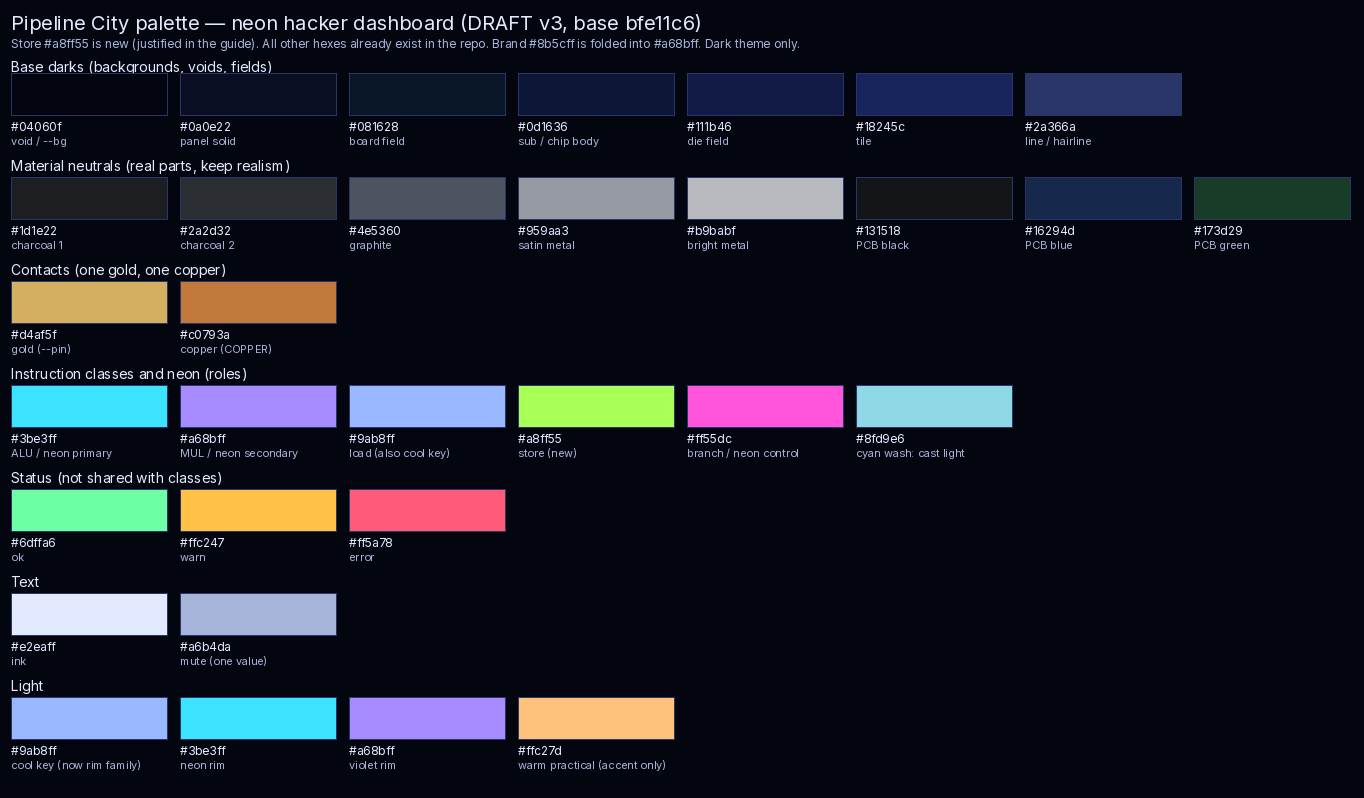
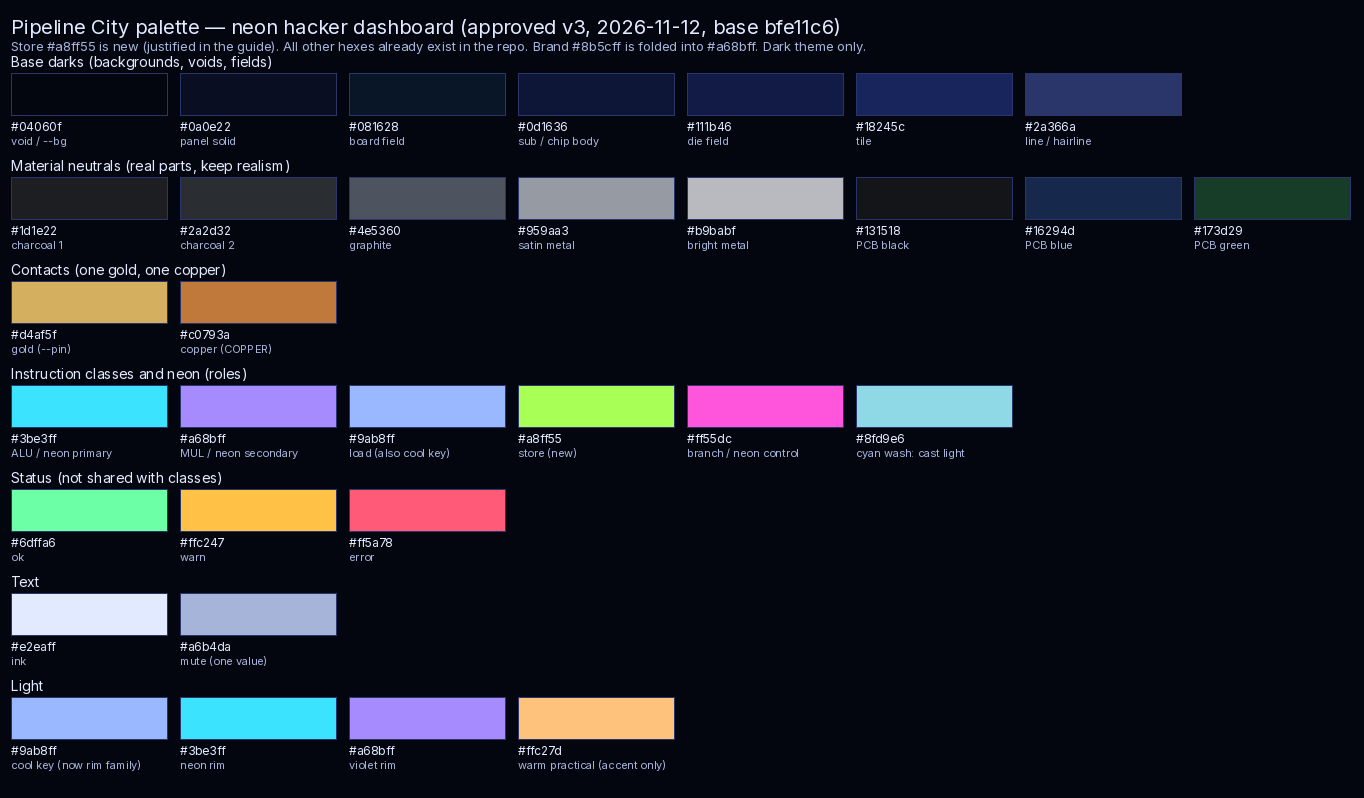
docs: fix review facts in the v3 art style guide
Update art-style.md, palette.png and references.png. Drop ui-boot.png,
which the guide no longer cites. No code changes.

Changed region(s): [[0.0, 0.0, 0.6158, 0.0902]]

diff --git a/docs/art-style.md b/docs/art-style.md
@@ -3,7 +3,7 @@
 **Status: Approved by Khalil, 2026-11-12 (v3).**
 
 **Base:** `bfe11c69781196ae8dfb9ba7de3553b2037edffc` (main, 2026-11-12 19:49 UTC+1). Folds the five open calls Khalil answered on 2026-11-12 into DRAFT v2. Evidence: the direction audit (2026-11-12, delivered with the v2 draft, not in the repo) and the measurements cited below. **(J)** = judgement. "Proposal" = not decided, not scheduled.
-**Images:** palette [art/palette.png](art/palette.png), references [art/references.png](art/references.png), plus [art/ui-boot.png](art/ui-boot.png) (the boot screen of `index.html`, rendered headless) and [art/cpu2-die-crop.png](art/cpu2-die-crop.png) (a 2.7× crop of `public/stills/cpu2.webp`).
+**Images:** palette [art/palette.png](art/palette.png), references [art/references.png](art/references.png), and [art/cpu2-die-crop.png](art/cpu2-die-crop.png) (a 2.7× crop of `public/stills/cpu2.webp`).
 **Source of truth for values:** the code. Modelling and material detail: [`docs/LOWPOLY_STYLE.md`](LOWPOLY_STYLE.md) (it conflicts with this direction in places; see §12).
 
 ## 1. Direction
@@ -12,7 +12,7 @@ Pipeline City is a **neon hacker dashboard**: a near-black navy world where info
 **It is not:** a cozy warm desk scene (2700 K lamps, oak and wood as the mood); a light theme; cartoon or flat-shaded parts, stylised shapes or saturated base paint; a club rave (neon everywhere, flooding the room, glow that hides the hardware).
 
 ## 2. Palette (one set for UI, 3D parts and 2D interiors)
-Every hex already exists in the repo, except store `#a8ff55`, which is new (justified under Instruction classes below). Roles are decided in this draft.
+Every hex already exists in the repo, except store `#a8ff55`, which is new (justified under Instruction classes below). Roles are decided.
 | Role | Hex | Source |
 |---|---|---|
 | Void / page | `#04060f` | `--bg` (`src/core/ui/ui.css:15`), `theme.ts:15` |
@@ -30,7 +30,7 @@ Every hex already exists in the repo, except store `#a8ff55`, which is new (just
 | Neon primary: active, ALU | `#3be3ff` | `--alu`/`--accent` (`ui.css:17-18`), `GLOW.active` (`src/core/render/three/materials.ts:8`) |
 | Neon secondary: MUL, brand | `#a68bff` | `--mul` (`ui.css:17`); also replaces former brand `#8b5cff` |
 | Neon control: branch | `#ff55dc` | `--br` (`ui.css:17`) |
-| Load (instruction class) | `#9ab8ff` | already the cool key (`src/core/render/three/viewer.ts:68`); was `--ld #ffc247` |
+| Load (instruction class) | `#9ab8ff` | already the studio rim (`src/core/render/three/viewer.ts:68`); was `--ld #ffc247` |
 | Store (instruction class) | `#a8ff55` | **new**; was `--st #6dffa6`. Justification below |
 | Cyan cast light | `#8fd9e6` | `NEON_WASH` (`src/features/room/render/three/palette.ts:51`) |
 | Status ok / warn / error | `#6dffa6` / `#ffc247` / `#ff5a78` | `--ok`/`--warn`/`--bad` (`ui.css:18`) |
@@ -54,9 +54,9 @@ Status green and amber are no longer used as class colours. ALU, MUL and branch 
 | Store | `--st` / `T.st` | `#a8ff55` (**new**; was `#6dffa6`) | 91° | 16.47:1 | 13.47:1 |
 | Branch | `--br` / `T.br` | `#ff55dc` (unchanged) | 312° | 7.31:1 | 5.98:1 |
 
-WCAG: 4.5:1 is AA for normal text, 7:1 is AAA. All five clear AA against the void; ALU, load and store also clear AAA there. Against the die field (where class chips actually sit), MUL 6.11:1 and branch 5.98:1 stay AA, as they already were. Load is 34° from ALU and 32° from MUL, and is less saturated (S 0.40 vs ALU 0.77 / MUL 0.45), so it reads as a soft azure rather than a second cyan or violet. It reuses the cool-key hex already in the palette (no new colour).
+WCAG: 4.5:1 is AA for normal text, 7:1 is AAA. All five clear AAA against the void. Against the die field (where class chips actually sit), MUL 6.11:1 and branch 5.98:1 stay AA, as they already were. Load is 34° from ALU and 32° from MUL, and is less saturated (S 0.40 vs ALU 0.77 / MUL 0.45), so it reads as a soft azure rather than a second cyan or violet. It reuses the cool-key hex already in the palette (no new colour).
 
-**Why a new hex for store.** No remaining palette hue sits far enough from status green `#6dffa6` (143°), status amber `#ffc247` (40°) and ALU cyan (189°). The lime already in the repo, `#7dff4d` (the gamer-case RGB strip, `case3d.ts:258`, hue 104°), is only 31° from status green and would recreate the collision this change is meant to end. `#a8ff55` (hue 91°) sits nearly midway between amber (51° away) and status green (53° away), is neon at V 1.0, and contrasts 16.47:1 against the void.
+**Why a new hex for store.** No remaining palette hue sits far enough from status green `#6dffa6` (143°), status amber `#ffc247` (40°) and ALU cyan (189°). The lime already in the repo, `#7dff4d` (the gamer-case RGB strip, `case3d.ts:258`, hue 104°), is only 39.6° from status green and would recreate the collision this change is meant to end. `#a8ff55` (hue 91°) sits nearly midway between amber (51° away) and status green (53° away), is neon at V 1.0, and contrasts 16.47:1 against the void.
 
 ### Deprecated values (replace when the file is next touched; replacements marked (J) are judgements)
 | Value | Where | Replace with |
@@ -87,7 +87,7 @@ Light-theme tokens (the whole `:root` default palette and the `LIGHT` object) ar
 
 ## 3. Lighting
 - **Key: cool.** Stills, gallery and build mode: a cool white key (`#9ab8ff` family) replaces `#fff0dc`. **Rim: neon**, cyan `#3be3ff` or violet `#a68bff`, one per shot. Exposure and ACES stay (`viewer.ts`: ACES, exposure 1.6). (Proposal; today: key `#fff0dc` ×2.4, rim `#9ab8ff` ×1.2, `viewer.ts:68`.)
-- **Warm only as small accents:** a practical lamp may be warm (`#ffc27d`), never the key. Target (J): in a night room shot, warm-tinted pixels (R > B) under 20 % (the boot still has 48.0 % today).
+- **Warm only as small accents:** a practical lamp may be warm (`#ffc27d`), never the key. Target (J): in a night room shot, warm-tinted pixels (R > B + 5) under 20 % (the boot still has 48.0 % today).
 - **Room night look:** the window (moon, city) and the neon fixtures (strips, bias light, LED halo) define the room; warm lamps are pools, not the fill. Today the lamp cap keeps lights in `LIGHT_ORDER` (`src/features/room/render/three/roomlights.ts:18`): key, sun, arc, desk, floor, bedside, sconces, … `deskLed`, `ledHalo`, `ledUnder`, `bias`, `strips` last. So at cap 4 (Low) and cap 8 every neon light is capped; their fixtures still glow and their baked bounce shows ×2.5 (`CAPPED_BOUNCE`, `roomlights.ts:36`). **Proposal:** order neon fixtures before the warm lamps.
 - **Room surfaces: charcoal and graphite, not wood (decided).** Today the room is smoked oak and ash veneer: `OAK #665540` / `OAK_GRAIN #38291c` (`src/features/room/render/three/palette.ts:15`) used by `smokedOak` (roughness `OAK_ROUGH` 0.68, `furniture3d.ts:94,111`) for the floor (`room3d.ts:283-284`), the desk top (`room3d.ts:292`) and the bookcase (`furniture3d.ts:518`); `VENEER #2f2a26` / `VENEER_GRAIN #1c1815` (`palette.ts:10`) at roughness 0.5 (`furniture3d.ts:208,332,764`) for the bed, nightstand, shelf and drawer unit; walls are plaster over `WALL #3a404c` at roughness 0.92 (`palette.ts:8`, `room3d.ts:425`); ceiling `CEILING 0x4a4f59` at roughness 0.95 (`room3d.ts:438`); trim `TRIM 0x3d424c` (`palette.ts:8`). **Targets (J), all from §2:**
 
@@ -124,7 +124,7 @@ These four stay recognisably the same hardware (OEM tower, 3.5" HDD, DDR2 clip-o
 - Emissives only where real hardware has light: status and activity LEDs, RGB strips and rings (fans, GPU shroud, cooler cap, case strip, board strip, RAM), screens, lit traces and die blocks. No glowing outlines on geometry; no emissive on bare plastic or metal.
 - Colours from the neon and status roles only (§2). Existing state looks hold: active `#3be3ff` 0.4, throttled `#ffc247` 0.2, burnt `#ff5a78` 0.8, heat ramp cyan→amber→red from 42 °C to 82 °C (`materials.ts:8-33`).
 - LOD stand-ins keep the same materials, so emissive state survives at a distance (`src/core/render/three/partlod.ts`; `docs/render/lod.md` "The machine's stand-ins"). New emissive materials must keep this: a stateful material joins only its own set.
-- **Stills: powered-on idle (proposal).** Today `renderStill` shows parts unpowered (0 of 71 stills have a neon pixel, S > 0.6 and V > 0.85). New stills show idle emissives (LEDs, strips, rings at their idle level), with no active or heat glow.
+- **Stills: powered-on idle (proposal).** Today `renderStill` shows parts unpowered (3 of 71 stills have any neon pixel, S > 0.6 and V > 0.85: `tpm1` 17 px, `tpm2` 15 px, `cooler1` 1 px). New stills show idle emissives (LEDs, strips, rings at their idle level), with no active or heat glow.
 
 ## 5. Zoom continuity: 3D part → interior view
 Rules (targets; all values are proposals (J)):
@@ -155,15 +155,14 @@ Rules (targets; all values are proposals (J)):
 
 ## 9. References ([art/references.png](art/references.png))
 **References**
-1. `docs/art/ui-boot.png`: the UI at its most on-direction: navy void, glass, the brand gradient (today `#8b5cff`→`#3be3ff` in `index.html:21`; after the fold, `#a68bff`→`#3be3ff`), crisp type.
-2. `docs/art/cpu2-die-crop.png`: the die art's class colours and floorplan: the interior look the zoom must reach (at full value; §5). After the class-hue change, this crop will need a refresh.
-3. `public/stills/cpu2.webp`: a real package carrying neon art; the target once relit (§3).
-4. `public/stills/board2.webp`: black PCB, real slots, low-saturation base: the right base for lit traces.
-5. `public/stills/gpu3.webp`: charcoal shroud and modelled fans, ready for an RGB ring (§4).
-6. `public/stills/vsink1.webp`: a black fin stack with one copper band: dark, plausible, mean L 55.1.
+1. `docs/art/cpu2-die-crop.png`: the die art's class colours and floorplan: the interior look the zoom must reach (at full value; §5). After the class-hue change, this crop will need a refresh.
+2. `public/stills/cpu2.webp`: a real package carrying neon art; the target once relit (§3).
+3. `public/stills/board2.webp`: black PCB, real slots, low-saturation base: the right base for lit traces.
+4. `public/stills/gpu3.webp`: charcoal shroud and modelled fans, ready for an RGB ring (§4).
+5. `public/stills/vsink1.webp`: a black fin stack with one copper band: dark, plausible, mean L 55.1.
 
 **Anti-references (the old look, including the withdrawn light-part exceptions)**
-- `public/boot-still.jpg`: a sunny warm room (48.0 % warm pixels, 0 % neon, wood tones `#413124`, `#593e23`).
+- `public/boot-still.jpg`: a sunny warm room (48.0 % warm pixels (R > B + 5), 0 % neon, wood tones `#413124`, `#593e23`).
 - `public/stills/case0.webp`: cream case, mean L 231.6: the old OEM paint, to be replaced by the charcoal variant (§4).
 - `public/stills/hdd0.webp`: bright aluminium drive, mean L 191.4.
 - `public/stills/ram1.webp`: silver DDR2 spreader, mean L 171.2.
@@ -174,7 +173,7 @@ All stills are still lit warm-key and unpowered, so even the references are "par
 
 ## 10. Gaps and rework (proposals, ranked by visibility; nothing scheduled)
 S ≈ hours, M ≈ days, L ≈ a week or more (J). The rework stays on hold until Khalil says go.
-1. **Room: night light and charcoal / graphite surfaces (L).** Cool night key (moon, city), neon fixtures first in `LIGHT_ORDER`, warm lamps as one or two practicals, oak and ash veneer replaced by the charcoal/graphite specs in §3. *Touches:* `palette.ts` (`WALL`, `OAK`, `VENEER`, …), `room3d.ts`, `furniture3d.ts` (`smokedOak`), `roomlights.ts`, `room/light.md` targets, **lightmap re-bake** (`tools/bake/`), screenshots per preset (`npm run shot -- --preset Low|Medium|High`).
+1. **Room: night light and charcoal / graphite surfaces (L).** Cool night key (moon, city), neon fixtures first in `LIGHT_ORDER`, warm lamps as one or two practicals, oak and ash veneer replaced by the charcoal/graphite specs in §3. *Touches:* `palette.ts` (`WALL`, `OAK`, `VENEER`, …), `room3d.ts`, `furniture3d.ts` (`smokedOak`), `roomlights.ts`, `room/light.md` targets, **lightmap re-bake** (`tools/bake/`), screenshots per preset (`npm run shot -- out.png --preset Low|Medium|High`).
 2. **Boot still (S, after 1).** Re-shoot at night; replace `public/boot-still.jpg`. Fold the boot gradient `#8b5cff`→`#a68bff` in `index.html:21,32` at the same time (or with item 8).
 3. **Instruction-class hues (S).** `--ld #9ab8ff` and `--st #a8ff55` in `ui.css` and `theme.ts`; update tests that hard-code the old amber/green class colours. Live die and pipeline art follow the tokens. Refresh `docs/art/cpu2-die-crop.png` once a die still exists with the new hues.
 4. **Dark / anodised variants of the light parts (M).** `case0`, `hdd0`, `ram1`, `cooler1` to the material specs in §4; re-render their stills; they must meet C2's dark default (40–100). *Touches:* `case3d.ts` `LOOKS.oem`, `exterior.ts` `STYLES[0]`, `casedetail3d.ts` beige button, `drive3d.ts` `hddModel`, `ram3d.ts` `'low'` plate, `cooler3d.ts` `tower` fins.
@@ -208,7 +207,7 @@ S ≈ hours, M ≈ days, L ≈ a week or more (J). The rework stays on hold unti
 
 **Room**
 - [ ] Surfaces from the charcoal / graphite targets in §3, not oak or ash veneer.
-- [ ] Warm practicals only; warm-tinted pixels under 20 % in a night shot (J).
+- [ ] Warm practicals only; warm-tinted pixels (R > B + 5) under 20 % in a night shot (J).
 
 **Quick check (luminance, fill, neon)**
 ```python
@@ -233,4 +232,5 @@ mx=o.max(1)/255; S=(o.max(1)-o.min(1))/np.maximum(o.max(1),1); neon=((S>0.6)&(mx
 ## Changelog
 - 2026-11-12: v1-v5: the mixed-look guide (realistic parts, warm room, neon UI) with rules C1, C2, rework of radiators and display1 (see git history of this file).
 - 2026-11-12: DRAFT v2: direction "neon hacker dashboard" approved by Khalil for drafting; harmonised palette; cool key and neon rim; emissive and zoom rules; references reset. Base `bfe11c6`.
-- 2026-11-12: DRAFT v3 (this file): folds Khalil's five calls — drop the light theme; instruction classes get their own hues (`--ld #9ab8ff`, `--st #a8ff55`); dark or anodised variants of `case0`, `hdd0`, `ram1`, `cooler1`; room surfaces to charcoal and graphite; brand `#8b5cff` folded into `#a68bff`. Base still `bfe11c6`.
+- 2026-11-12: Approved v3 (this file): folds Khalil's five calls — drop the light theme; instruction classes get their own hues (`--ld #9ab8ff`, `--st #a8ff55`); dark or anodised variants of `case0`, `hdd0`, `ram1`, `cooler1`; room surfaces to charcoal and graphite; brand `#8b5cff` folded into `#a68bff`. Base still `bfe11c6`.
+- 2026-11-12: v3 fact fixes after review: status, changelog and palette wording; current studio key vs rim; AAA contrast for MUL and branch; hue distances; warm-pixel threshold (R > B + 5); neon still counts; references sheet (approved v3 at `bfe11c6`, all listed anti-references); dropped `ui-boot.png` as a reference; shot command usage.
